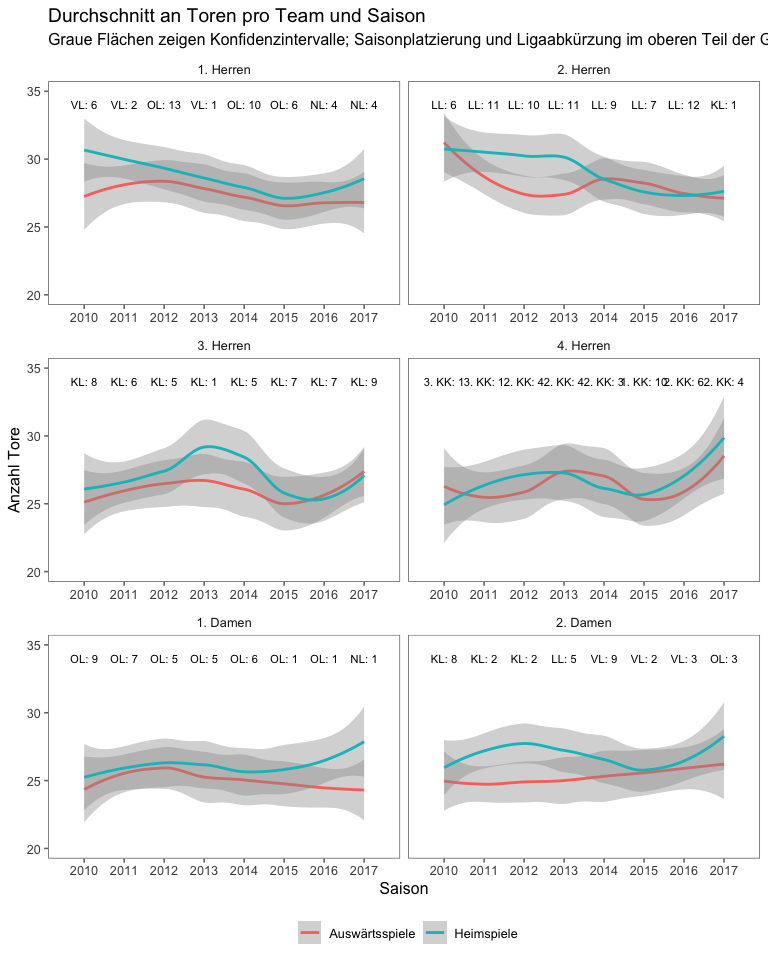
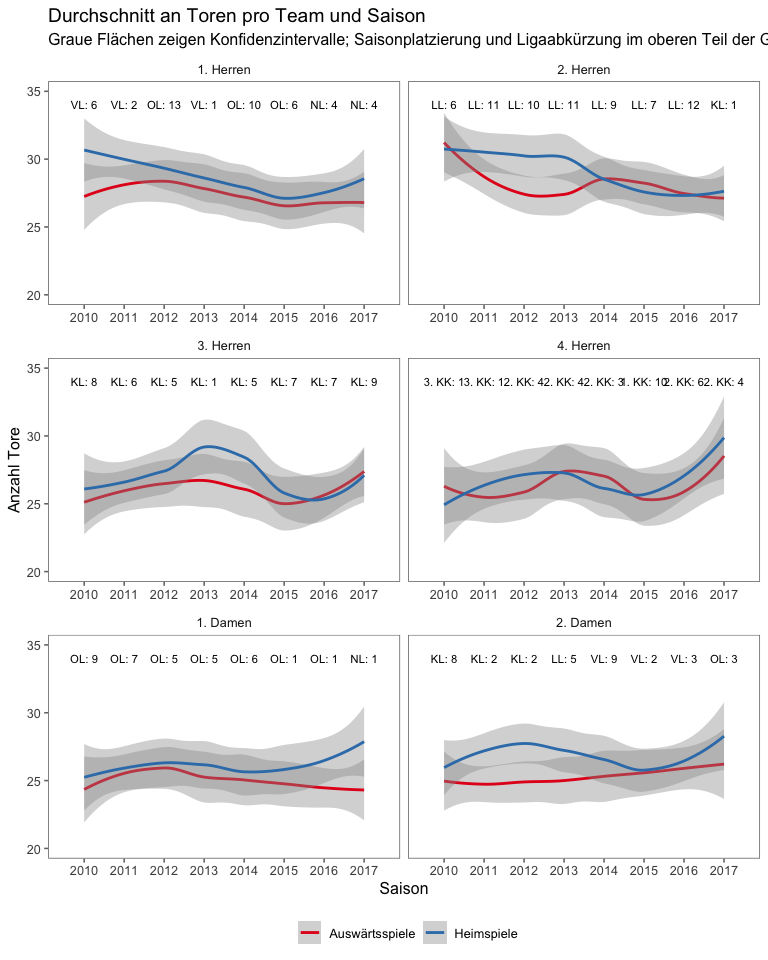
Adjust colour scale

diff --git a/ringarena.md b/ringarena.md
@@ -2,7 +2,7 @@ Mythos Ringarena
 ================
 Stefan Müller
 
-Die Ringarena, Heimspielstätte der [TSV Bonn rrh.](http://tsv-bonn.de) (mein geliebter Heimatverein), ist berühmt berüchtigt -- sowohl bei den Beueler Handballern als auch bei den Gegnern. Die TSV'ler schätzen die Halle unter anderem wegen der Geselligkeit und Kaltgetränke im Räumchen, Auswärtsteams fürchten den "Schuhkarton" aufgrund der Enge und des kleinen Spielfelds.
+Die Ringarena, Heimspielstätte der [TSV Bonn rrh.](http://tsv-bonn.de) (mein geliebter Heimatverein), ist berühmt berüchtigt - sowohl bei den Beueler Handballern als auch bei den Gegnern. Die TSV'ler schätzen die Halle unter anderem wegen der Geselligkeit und Kaltgetränke im Räumchen, Auswärtsteams fürchten den "Schuhkarton" aufgrund der Enge und des kleinen Spielfelds.
 
 Liest man Vorberichte der Gegner zu Auswärtsspielen bei der TSV, kommt die Halle an der Ringstraße häufig zur Sprache, eben weil sie so besonders ist. Doch birgt die Ringarena tatsächlich ein Vorteil für die Beueler Handballerinnen und Handballer?
 
@@ -24,7 +24,7 @@ Die zweite Damenmannschaft ist das einzige Team mit einem niedrigeren Medianwert
 
 ![](ringarena_files/figure-markdown_github/unnamed-chunk-10-1.png)
 
-Der Datensatz erlaubt es, Änderungen im Zeitverlauf anzuschauen. Der folgende Plot zeigt die Anzahl an geworfenen TSV-Toren in Heim-und Auswärtsspielen pro Saison und Team. Die grauen Flächen markieren Konfidenzintervalle, schließlich ist die Anzahl an Toren nicht konstant, sondern variiert innerhalb einer Saison. Oben befindet sich die Liga und Abschlussplatzierung. Fast immer liegt die grüne Linie über der roten - es wurden also mehr Tore im Mittelwert in der Ringarena als auswärts erziehlt. Ausnahmen bildet die 2. Herren 2015/16, die Dritte in der vergangenen Saison und die 4. Herren 2010/2011. Einige interessante Beobachtunge. Seit der Saison 2015/16 hat die Anzahl an Toren bei der 1. Herren zugenommen bei der 2. Herren sehen wir einen negativen Trend im Zeitverlauf. Die "Dritte" hat einen klaren positiven Ausreißer im Jahr 2013/14, als die Kreismeisterschaft errungen wurde. Der Trend der Vierten Herren zeigt seit 2015 deutlich nach oben? Verjüngung des Kaders oder x-ter Frühling der Spieler? Außerdem wird die Heimdominanz der 1. Damen in den vergangenen zwei Spielzeiten sehr deutlich.
+Der Datensatz erlaubt es, Änderungen im Zeitverlauf anzuschauen. Der folgende Plot zeigt die Anzahl an geworfenen TSV-Toren in Heim-und Auswärtsspielen pro Saison und Team. Oben befindet sich die Liga und Abschlussplatzierung. Fast immer liegt die blaue Linie über der roten - es wurden also mehr Tore im Durchschnitt in der Ringarena als auswärts erziehlt. Ausnahmen bildet die 2. Herren 2015/16, die Dritte in der vergangenen Saison und die 4. Herren 2010/2011. Einige interessante Beobachtunge. Seit der Saison 2015/16 hat die Anzahl an Toren bei der 1. Herren zugenommen bei der 2. Herren sehen wir einen negativen Trend im Zeitverlauf. Die "Dritte" hat einen klaren positiven Ausreißer im Jahr 2013/14, als die Kreismeisterschaft errungen wurde. Der Trend der Vierten Herren zeigt seit 2015 deutlich nach oben. Verjüngung des Kaders, x-ter Frühling der Oldies oder Mischung aus beidem? Außerdem wird die Heimdominanz der 1. Damen in den vergangenen zwei Spielzeiten sehr deutlich.
 
 ![](ringarena_files/figure-markdown_github/unnamed-chunk-11-1.png)
 
